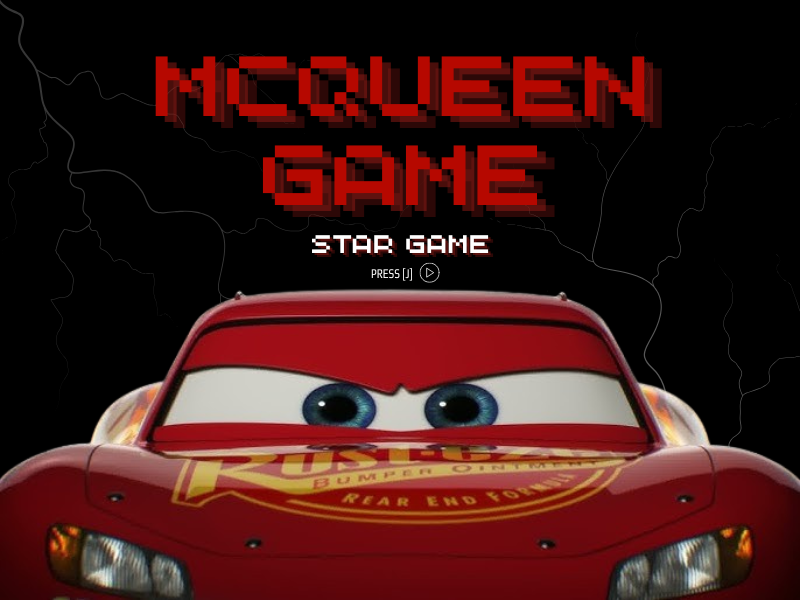
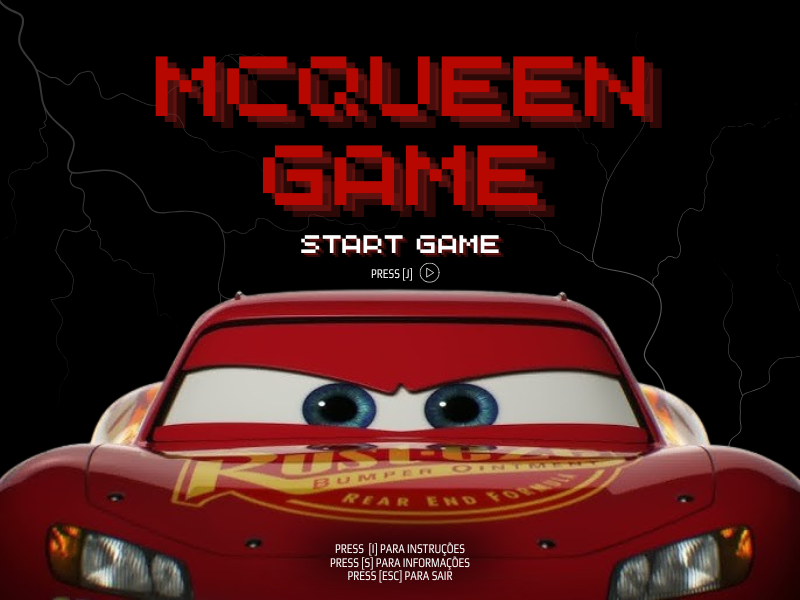
Projeto Final

Changed region(s): [[0.375, 0.84, 0.625, 0.99], [0.375, 0.39, 0.625, 0.45]]

diff --git a/meujogo.py b/meujogo.py
@@ -1,17 +1,18 @@
 import arcade
 import random
 
-#criar constantes
+#criar variáveis que serão bastante utilizadas
 Altura = 600
 Largura = 800
 Titulo = "Meu Jogo"
 
 
 
-#personagem
+#criar personagem
 class Player(arcade.Sprite):
     def __init__(self):
-        super().__init__("mcqueen_direita.png", scale=0.10)
+        super().__init__("mcqueen_direita.png", scale=0.10) 
+        #adicionar textura conforme estiver para direita ou esquerda
         self.textura_direita = arcade.load_texture("mcqueen_direita.png")
         self.textura_esquerda = arcade.load_texture("mcqueen_esquerda1.png")
 
@@ -54,7 +55,7 @@ class Combustivel(arcade.Sprite):
      
 
 class Combustivel_Especial(arcade.Sprite):
-    #O método init é o construtor, onde fica as caracteristicas do personagem (objeto)
+   
     def __init__(self):
         super().__init__("raio.png", scale= 0.05)  
     # O update é chamado  a cada frame do jogo, ele atualiza o personagem (faz andar, etc)
@@ -66,7 +67,7 @@ class Combustivel_Especial(arcade.Sprite):
         self.center_y += self.change_y
 
         #parar o personagem antes dele sair da tela
-        #temos os lados right, left, top e bottom
+        
         if(self.right > Largura):
             self.change_x *= -1 #faz o efeito rebot, o pérsonagem bate na borda da tela e volta
         elif(self.left < 0):
@@ -89,7 +90,7 @@ class Inimigo(arcade.Sprite):
         self.center_x += self.change_x
         self.center_y += self.change_y
 
-        # Lógica para rebater nas paredes 
+        #para rebater nas paredes 
         if self.left < 0 or self.right > 800:
             self.change_x *= -1
         if self.bottom < 0 or self.top > 600:
@@ -98,18 +99,55 @@ class Inimigo(arcade.Sprite):
 
 
 class Bomba(arcade.Sprite):
-    # Adicionamos 'textura_explosao' aqui nos parâmetros:
     def __init__(self, textura_explosao):
-        # Inicializa o sprite com a imagem normal da bomba
-        super().__init__("bomba.png", 0.09) 
+        # Carrega a textura inicial
+        self.textura_normal = arcade.load_texture("bomba.png")
+        super().__init__(self.textura_normal, scale=0.09) 
         
-        # Guarda a textura recebida e cria as variáveis de controle
         self.textura_explosao = textura_explosao
         self.explodindo = False
         self.tempo_explosao = 0.0
         
-    
-    
+        # Velocidades
+        self.change_x = random.choice([-2, 2])
+        self.change_y = random.choice([-2, 2])
+
+    def resetar(self):
+        #Faz a voltar ao estado original e mudar de lugar
+        self.explodindo = False
+        self.texture = self.textura_normal  # Restaura a textura de bomba
+        self.tempo_explosao = 0.0
+        
+        # Sorteia nova posição 
+        self.center_x = random.randint(50, Largura - 50)
+        self.center_y = random.randint(50, Altura - 50)
+        
+        # Devolve a velocidade de movimento
+        self.change_x = random.choice([-2, 2])
+        self.change_y = random.choice([-2, 2])
+
+    def update(self, delta_time):
+        # Se explodiu, conta o tempo para chamar o resetar
+        if self.explodindo:
+            self.change_x = 0
+            self.change_y = 0
+            self.tempo_explosao += delta_time
+            
+            # Quando dá 1 segundo, ela reseta sozinha 
+            if self.tempo_explosao >= 1.0:
+                self.resetar()
+            return
+
+        # Movimento normal
+        self.center_x += self.change_x
+        self.center_y += self.change_y
+
+        # Rebater nas bordas
+        if self.left <= 0 or self.right >= Largura:
+            self.change_x *= -1
+        if self.bottom <= 0 or self.top >= Altura:
+            self.change_y *= -1
+
 
 #criar tela da vitória
 class Tela_vitoria(arcade.View):
@@ -137,7 +175,9 @@ class Tela_vitoria(arcade.View):
        
         arcade.draw_text(f"PONTUAÇÃO: {self.pontuacao}", 510, 230, arcade.color.WHITE, 18, 50,font_name="Courier New", bold=True)
         arcade.draw_text(f"TEMPO: {self.cronometro: .0f}s", 510, 200, arcade.color.WHITE, 18, 50,font_name="Courier New", bold=True) 
-        
+
+        if self.pontuacao >= 70:
+            arcade.draw_text(f"PONTUAÇÃO MÁXIMA", 510, 170, arcade.color.WHITE, 18, 50,font_name="Courier New", bold=True)
 
     def on_key_press(self, key, modifiers):
          if key ==arcade.key.J:
@@ -145,8 +185,53 @@ class Tela_vitoria(arcade.View):
             self.window.show_view(novo_jogo)
          elif key == arcade.key.ESCAPE:
              arcade.close_window()
-         
+
+class Tela_Instrucoes(arcade.View): 
+    def __init__(self):
+        self.textura_fundo_instrucoes = arcade.load_texture("tela_instrucoes.png")
+        super().__init__ ()      
+    def on_draw(self):
+        self.clear()
+
+        arcade.draw_texture_rect(
+            texture = self.textura_fundo_instrucoes,
+            rect=arcade.XYWH(
+                x=Largura/2,
+                y=Altura/2,
+                width=Largura,
+                height=Altura
+            )
+        )
+    def on_key_press(self, key, modifiers):
+        if key == arcade.key.ESCAPE:
+            tela_inicial = Tela_inicial()
+            self.window.show_view(tela_inicial)
+
+                
+class Tela_Sobre(arcade.View):
+    def __init__(self):
+            self.textura_fundo_sobre = arcade.load_texture("Tela_Sobre.png")
+            super().__init__ ()      
+    def on_draw(self):
+            self.clear()
+    
+            arcade.draw_texture_rect(
+                texture = self.textura_fundo_sobre,
+                rect=arcade.XYWH(
+                    x=Largura/2,
+                    y=Altura/2,
+                    width=Largura,
+                    height=Altura
+                )
+            )
+    def on_key_press(self, key, modifiers):
+            if key == arcade.key.ESCAPE:
+                tela_inicial = Tela_inicial()
+                self.window.show_view(tela_inicial)
+    
+               
         
+           
         
 
 #criar a tela inicial
@@ -178,6 +263,14 @@ class Tela_inicial(arcade.View):
         elif key == arcade.key.ESCAPE:
             
             arcade.close_window()
+        elif key == arcade.key.I:
+            tela_instrucoes = Tela_Instrucoes()
+            self.window.show_view(tela_instrucoes)
+        elif key == arcade.key.S:
+                    tela_sobre = Tela_Sobre()
+                    self.window.show_view(tela_sobre)
+
+        
 
 
 
@@ -193,6 +286,7 @@ class Telajogo(arcade.View):
          arcade.set_background_color(  (0, 0, 0)  )
         #definir movimento
          self.movimento = 5
+         
          #criar cromnometro
          self.cronometro = 0.0
          self.cronometro_rodando = True
@@ -208,6 +302,8 @@ class Telajogo(arcade.View):
          self.personagem.center_y = 0
          self.combustivel.center_x = 240
          self.combustivel.center_y = 80
+         self.bomba.center_x = 200
+         self.bomba.center_y = 55
          
          self.combustivel_especial.center_x = 50
          self.combustivel_especial.center_y = 60
@@ -217,6 +313,9 @@ class Telajogo(arcade.View):
         #fazer o personagem andar
          self.combustivel.change_x = self.movimento
          self.combustivel.change_y = self.movimento
+         #fazer bomba andar
+         self.bomba.change_x = self.movimento
+         self.bomba.change_y = self.movimento
          #criar pontuação do jogo
          self.pontuacao = 0
 
@@ -242,7 +341,7 @@ class Telajogo(arcade.View):
 
              self.sprite_inimigo.append(inimigo1)
 
-         for e in range(20):
+         for e in range(10):
              combustivelE_1 = Combustivel_Especial()
 
              combustivelE_1.center_x = random.randint(50, Largura - 50)
@@ -256,7 +355,7 @@ class Telajogo(arcade.View):
              self.sprite_combustivel_especial.append(combustivelE_1)
 
         #laço de repetição criar moedas(combustivel)
-         for i in range(10):  # quantidade de moedas
+         for i in range(25):  # quantidade de moedas
              combustivel1 = Combustivel()
 
              combustivel1.center_x = random.randint(50, Largura - 50)
@@ -267,11 +366,13 @@ class Telajogo(arcade.View):
 
              self.sprite_combustivel.append(combustivel1)
 
+        
+         
+
          for b in range(7): 
-            bomba1 = Bomba(self.textura_explosao) # Passa a textura para cada uma
-            bomba1.center_x = random.randint(50, 800 - 50)
-            bomba1.center_y = random.randint(50, 600 - 40)
-            
+            bomba1 = Bomba(self.textura_explosao)
+            bomba1.center_x = random.randint(50, Largura - 50)
+            bomba1.center_y = random.randint(50, Altura - 50)
             self.sprite_bomba.append(bomba1)
          
 
@@ -314,7 +415,7 @@ class Telajogo(arcade.View):
         arcade.draw_text(f"CRONÔMENTRO: {self.cronometro: .0f}s", 10, 550, arcade.color.WHITE, 14)
 
         #desenhar msg de dano
-        if self.mostrar_mensagem_dano:
+        if self.mensagem_dano:
             arcade.draw_text("DANIFICADO!", 350, 560, arcade.color.RED, 24, True, "center", font_name="Impact")
       
   
@@ -328,6 +429,7 @@ class Telajogo(arcade.View):
         
         self.sprite_inimigo.update(delta_time)
         self.sprite_combustivel_especial.update(delta_time)
+        self.sprite_bomba.update(delta_time)
 
         #fazer o combustivel sumir qnd o carrinho passar por ele
         combustivel_colidido = arcade.check_for_collision_with_list(self.personagem, self.sprite_combustivel)
@@ -337,15 +439,17 @@ class Telajogo(arcade.View):
             #aumentar pontuação qnd coletar combustivel
             self.pontuacao += 1
 
-        #fazera bomba sumir qnd o carrinho passar por ele
+        # Detecção de colisão com o McQueen
         bomba_colidida = arcade.check_for_collision_with_list(self.personagem, self.sprite_bomba)
         for b in bomba_colidida:
             if not b.explodindo:
                 b.explodindo = True
-                b.texture = b.textura_explosao # Transforma na imagem de explosão
-                self.pontuacao -= 3 # Retira pontuação 
+                b.texture = b.textura_explosao
+                self.pontuacao -= 1 
 
-         #fazera inimigo sumir qnd o carrinho passar por ele
+        
+
+         
         inimigo_colidido = arcade.check_for_collision_with_list(self.personagem, self.sprite_inimigo)
 
         for inimigo in self.sprite_inimigo:
@@ -403,10 +507,10 @@ class Telajogo(arcade.View):
 
 
         if len(self.sprite_combustivel_especial) == 0:
-            # 1. Criamos a tela de vitória passando a pontuação e o cronômetro atuais
+            # Cria a tela de vitória passando a pontuação e o cronômetro atuais
             tela_fim = Tela_vitoria(self.pontuacao, self.cronometro)
             
-            # 2. Mandamos a janela do jogo mudar para essa nova tela
+            #Manda a janela do jogo mudar para essa nova tela
             self.window.show_view(tela_fim)
             
         
@@ -429,7 +533,7 @@ class Telajogo(arcade.View):
             arcade.close_window()
 
 
-    #evento ao soltar as teclas, para ele parar de andar qnd a tecla for solta
+    #para ele parar de andar qnd a tecla for solta
     def on_key_release(self, key, modifiers):
         if (key == arcade.key.LEFT or key == arcade.key.RIGHT ):
             self.personagem.change_x = 0
